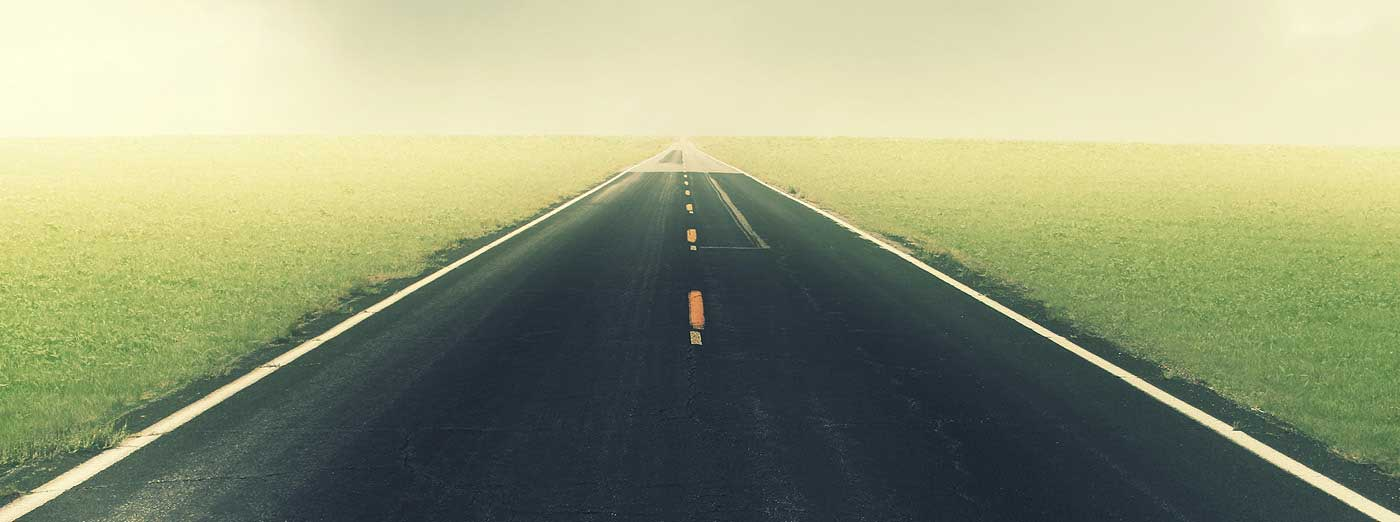
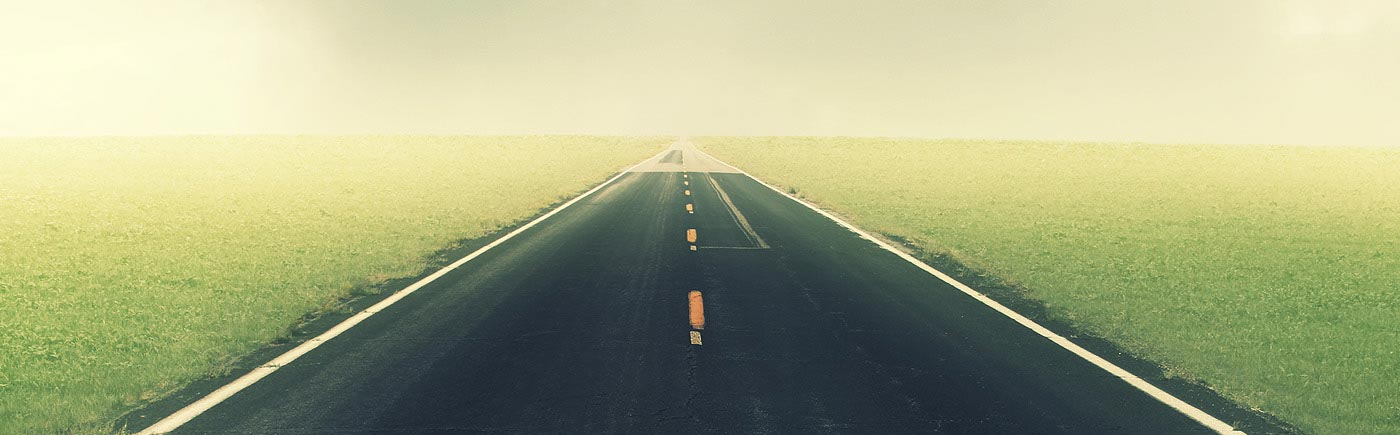
.

diff --git a/finalShow/public/static/css/common.css b/finalShow/public/static/css/common.css
@@ -63,11 +63,12 @@
 .g-top-info{
     width:100%;
     position: relative;
-    height: 400px;
+    height: 50vh;
+    min-height: 300px;
     background-image: url("../images/ntk128027.jpg");
     background-repeat: no-repeat;
-    background-attachment: fixed;
     background-size: cover;
+    background-position: 50% 75%;
 }
 .g-top-info:after{
     content: '';
@@ -84,13 +85,16 @@
 .m-myinfo{
     position: absolute;
     z-index: 1000;
-    width: 250px;
+    width: 300px;
     height: 100px;
-    bottom:20%;
+    bottom:35%;
     left: 15%;
     padding: 30px;
 }
 .m-myinfo h1{
-    font-size: 34px;
+    font-size: 36px;
     padding-bottom: 20px;
+}
+.m-myinfo p{
+    font-size: 16px;
 }
